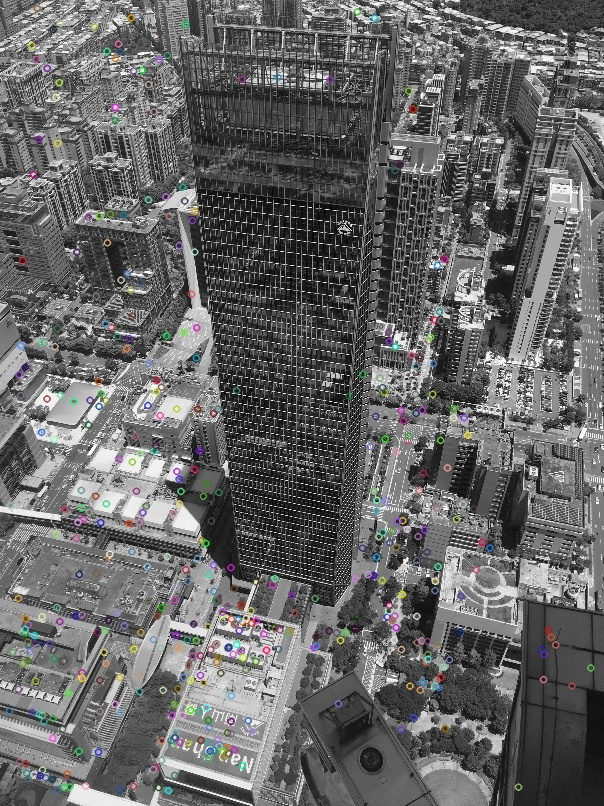
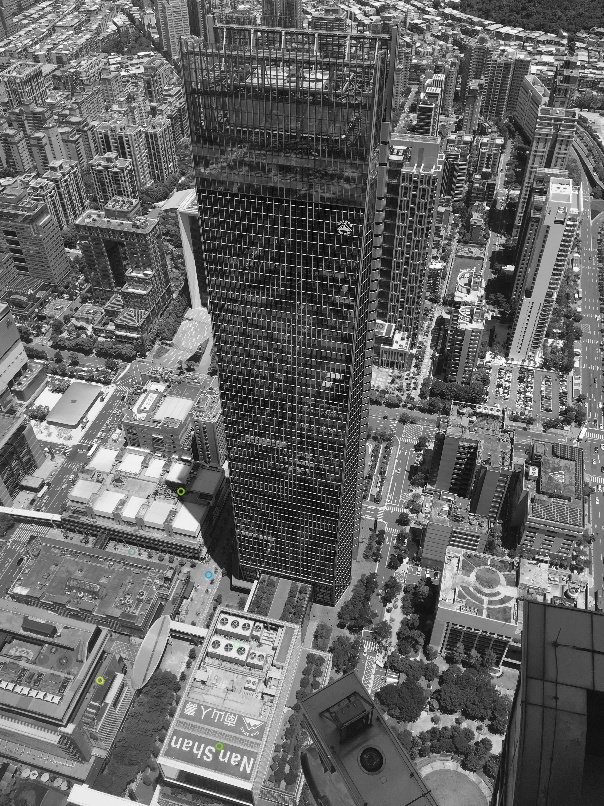
finish Q3

diff --git a/main.py b/main.py
@@ -16,10 +16,8 @@ class GUI(QtWidgets.QMainWindow, Ui_MainWindow):
         self.pushButton_2.clicked.connect(self.template_match)
         self.pushButton_3.clicked.connect(self.keypoints)
         self.pushButton_4.clicked.connect(self.match_keypoints)
-        self.kp1 = []
-        self.kp2 = []
-        self.des1 = None
-        self.des2 = None
+        self.kp_1 = []
+        self.kp_2 = []
         self.good_match = []
     
     def disparity(self):
@@ -59,20 +57,28 @@ class GUI(QtWidgets.QMainWindow, Ui_MainWindow):
         img_2 = cv2.imread('Aerial2_origin.jpg', cv2.IMREAD_GRAYSCALE)
         sift = cv2.xfeatures2d.SIFT_create(edgeThreshold = 10,contrastThreshold = 0.004)
 
-        kp1, des1 = sift.detectAndCompute(img_1, None)
-        kp2, des2 = sift.detectAndCompute(img_2, None)
-
+        self.kp_1, des1 = sift.detectAndCompute(img_1, None)
+        self.kp_2, des2 = sift.detectAndCompute(img_2, None)
+        
         bf = cv2.BFMatcher()
         matches = bf.knnMatch(des1, des2, k=2)
-        matches = sorted(matches, key = lambda x:x[0].distance)
+        matches = sorted(matches, key=lambda x: x[0].distance)
         
-        for i in range(0,500):
-            self.kp1.append(kp1[matches[i][0].queryIdx])
-            self.kp2.append(kp2[matches[i][0].trainIdx])
         
-        self.good_match = matches[:500]
-        img_1=cv2.drawKeypoints(img_1,self.kp1,img_1)
-        img_2=cv2.drawKeypoints(img_2,self.kp2,img_2)
+        for m,n in matches:
+            if m.distance < 0.75 * n.distance:
+                self.good_match.append(m)
+
+        self.good_match = self.good_match[:6]
+        kp_1_selected = []
+        kp_2_selected = []
+        for v in self.good_match:
+            kp_1_selected.append(self.kp_1[v.queryIdx])
+            kp_2_selected.append(self.kp_2[v.trainIdx])
+        
+        
+        img_1=cv2.drawKeypoints(img_1,kp_1_selected,img_1)
+        img_2=cv2.drawKeypoints(img_2,kp_2_selected,img_2)
 
         cv2.imwrite('Aerial1.jpg', img_1)
         cv2.imwrite('Aerial2.jpg', img_2)
@@ -83,7 +89,7 @@ class GUI(QtWidgets.QMainWindow, Ui_MainWindow):
         plt.title('Aerial2.jpg'), plt.xticks([]), plt.yticks([])
         plt.suptitle('SIFT')
         plt.show()
-
+        
         #points2f = cv2.KeyPoint_convert(self.kp1)
         #print(points2f)
         
@@ -92,10 +98,8 @@ class GUI(QtWidgets.QMainWindow, Ui_MainWindow):
     def match_keypoints(self):
         img_1 = cv2.imread('Aerial1_origin.jpg', cv2.IMREAD_GRAYSCALE)
         img_2 = cv2.imread('Aerial2_origin.jpg', cv2.IMREAD_GRAYSCALE)
-        #print(self.kp1)
-        #print(self.kp2)
-        #print(self.good_match)
-        img_out = cv2.drawMatchesKnn(img_1,self.kp1,img_2,self.kp2,self.good_match,None,flags=2)
+        
+        img_out = cv2.drawMatches(img_1,self.kp_1,img_2,self.kp_2,self.good_match,None,flags=2)
         plt.imshow(img_out)
         plt.show()
 
